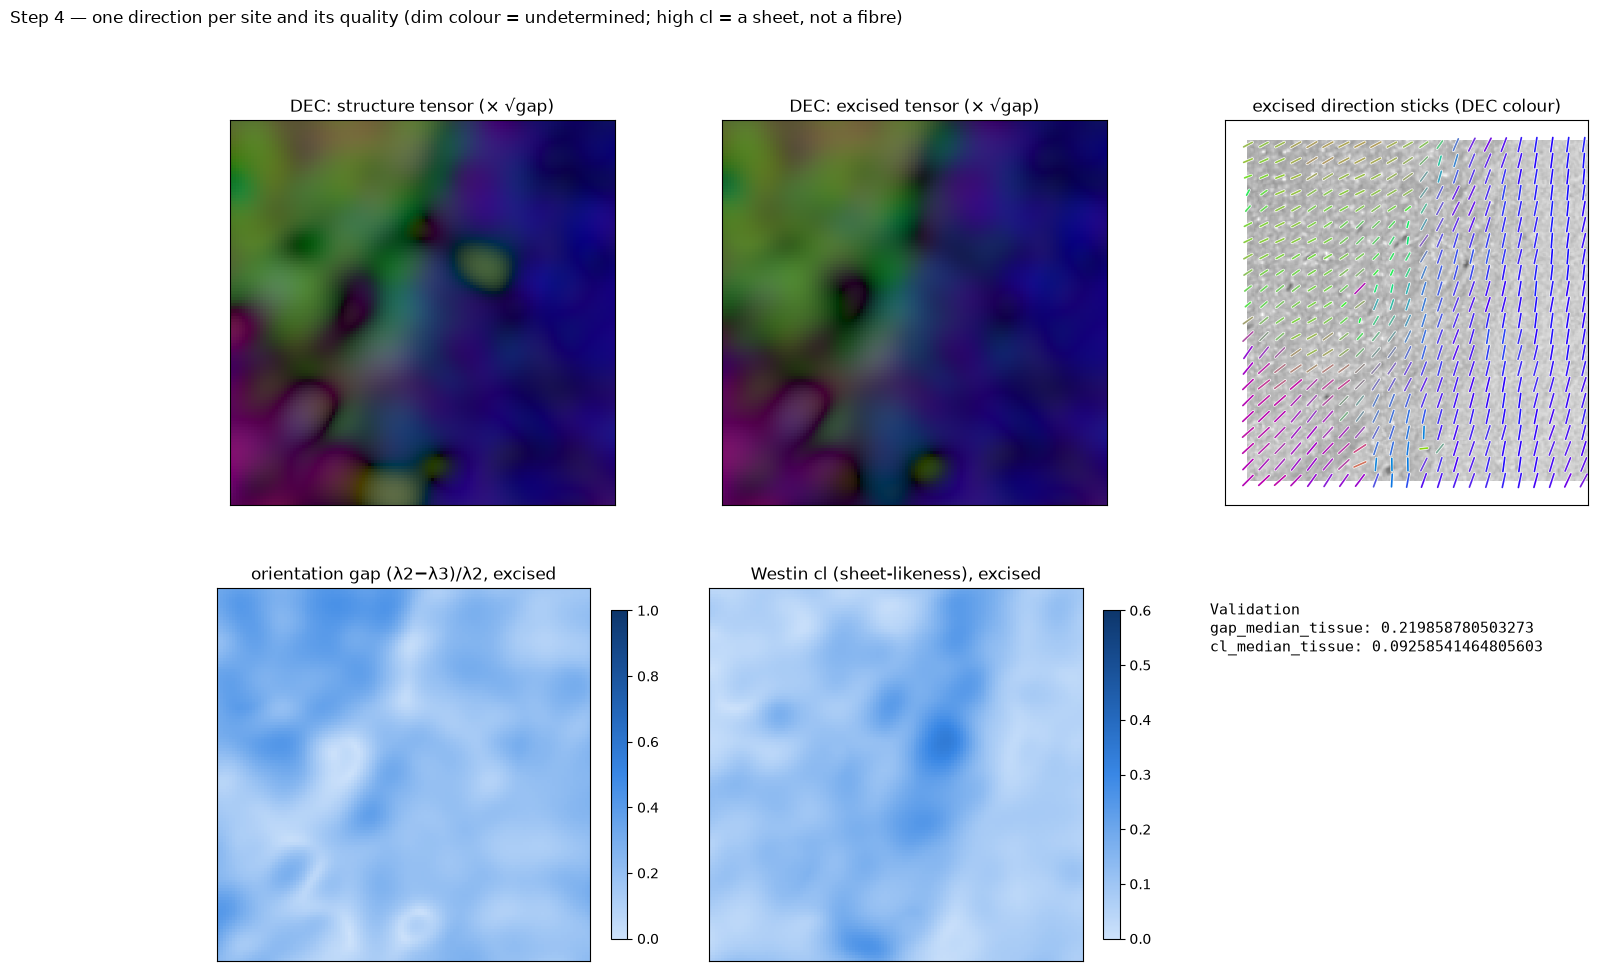
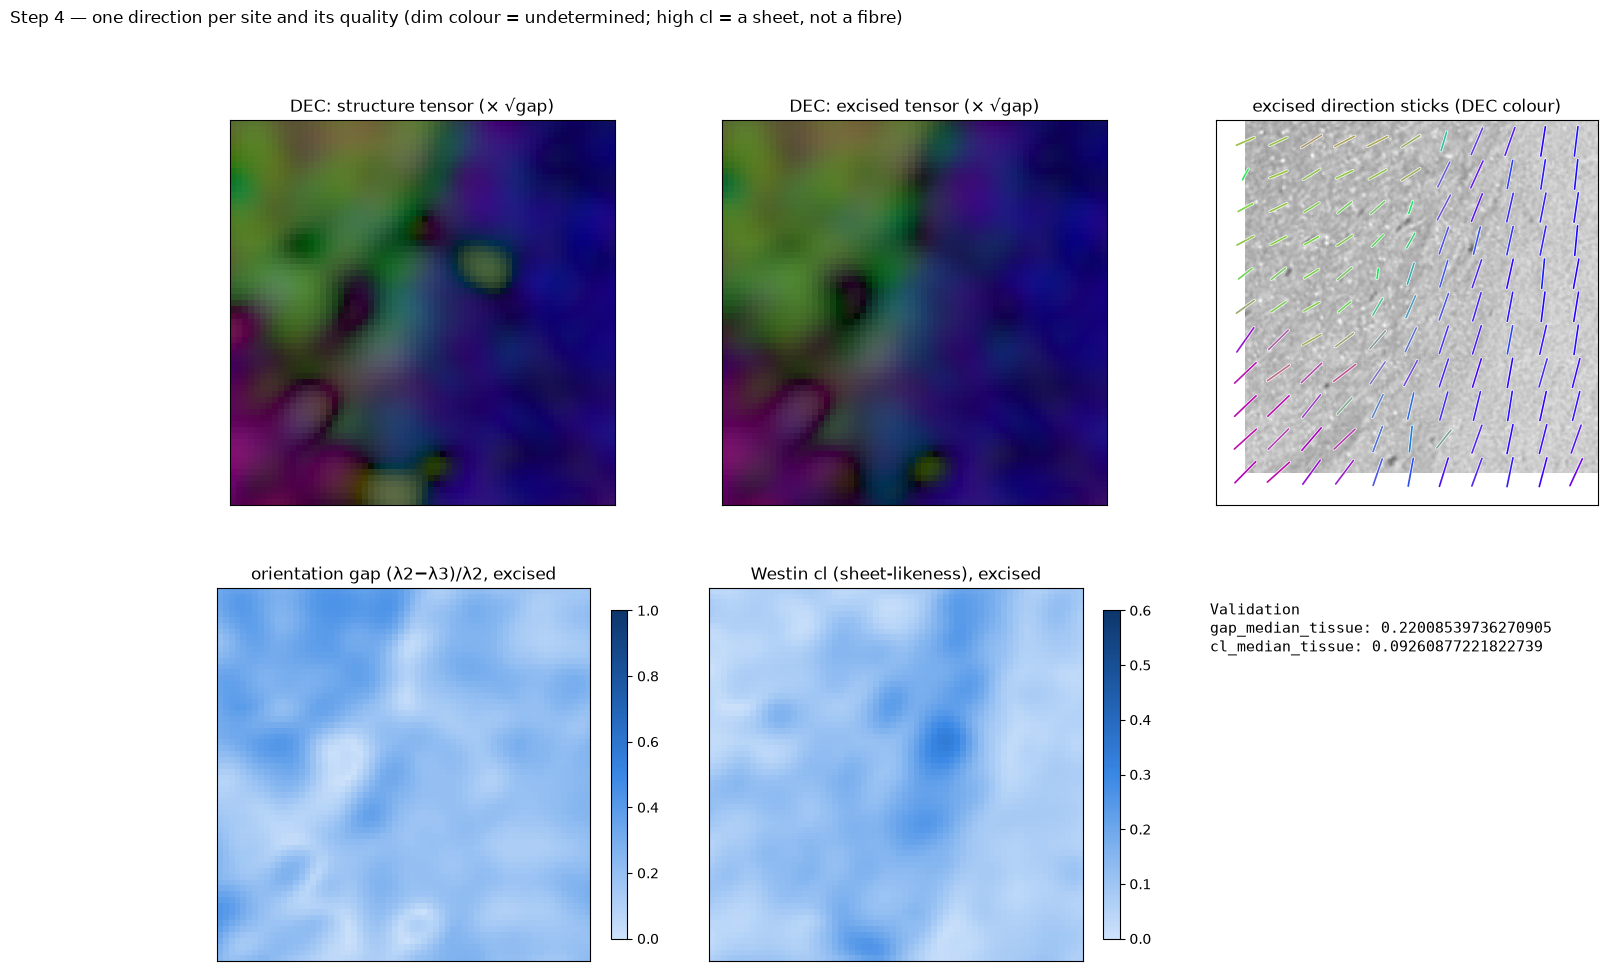
Orientation readout as a per-voxel distribution over directions (two populations in one voxel stay two bumps); field smoothing; walkthrough figures in the docs

Changed region(s): [[0.7398, 0.1228, 0.9864, 0.522], [0.8631, 0.6141, 0.9556, 0.6755]]

diff --git a/scripts/bench/orientation_readout.py b/scripts/bench/orientation_readout.py
@@ -21,7 +21,7 @@ from shapetensor.features import make_engine
 from shapetensor.features.cache import cached_features
 from shapetensor.phantoms import make
 from shapetensor.readout import common, orientation
-from shapetensor.readout.orientation import OrientationReadout, OrientationReadoutMLP, assign, window_modes
+from shapetensor.readout.orientation import OrientationReadout, OrientationReadoutDist, OrientationReadoutMLP, assign, modes_from_density, smooth_field, window_modes
 import argparse
 from shapetensor.tensor import gradients
 
@@ -67,8 +67,8 @@ def teacher(v):
 
 
 def main():
-    ap = argparse.ArgumentParser(); ap.add_argument("--model", default="mlp", choices=["ridge", "mlp"]); ap.add_argument("--kappa", type=float, default=25.0)
-    ap.add_argument("--mass-floor", type=float, default=0.15); args = ap.parse_args()
+    ap = argparse.ArgumentParser(); ap.add_argument("--model", default="mlp", choices=["ridge", "mlp", "dist"]); ap.add_argument("--kappa", type=float, default=25.0)
+    ap.add_argument("--mass-floor", type=float, default=0.15); ap.add_argument("--field-smooth", type=int, default=5); ap.add_argument("--conf-q", type=float, default=0.5); args = ap.parse_args()
     t0 = time.time()
     tex = json.load(open(f"{DATA_ROOT}/results/tex_calibrated.json"))["texture"]; tex["widths"] = [tuple(w) for w in tex["widths"]]
     tex = make.TextureParams(**{**tex, "dispersion_deg": 8.0, "pitch_deg": 4.0})
@@ -85,7 +85,7 @@ def main():
             F = cached_features(eng, v); d, gap = teacher(v)
             w = torch.zeros_like(gap); w[inner] = (gap[inner] > torch.quantile(gap[inner], 0.7)).float() * fib[inner].float()
             blocks.append((F, d, w))
-        ro = (OrientationReadoutMLP(smooth=3) if args.model == "mlp" else OrientationReadout(smooth=3, ridge=1.0)).fit(blocks, n_sample=240_000)
+        ro = ({"mlp": OrientationReadoutMLP(smooth=3), "dist": OrientationReadoutDist(smooth=3)}.get(args.model) or OrientationReadout(smooth=3, ridge=1.0)).fit(blocks, n_sample=240_000)
         del blocks; torch.cuda.empty_cache()
         r = {"fit_r2": round(ro.fit_r2, 3)}
         # --- test on seed B single fibres: per-voxel error on fibre voxels, teacher error for reference
@@ -106,12 +106,19 @@ def main():
         second = []
         for k, a in enumerate(ANG[::3]):
             v, fib, _ = build([(a, 1.0)], 200 + 3 * k, tex, g)
-            o, conf = ro.predict(cached_features(eng, v))
+            Fn_ = cached_features(eng, v); o, conf = ro.predict(Fn_)
+            os_, cs_ = smooth_field(o, conf, args.field_smooth) if args.field_smooth > 1 else (o, conf)
+            Pn = ro.predict_dist(Fn_) if args.model == "dist" else None
             for z in zs:
                 for x in xs:
                     sl = (slice(None), slice(z - half, z + half + 1), slice(y_mid - half // 2, y_mid + half // 2 + 1), slice(x - half, x + half + 1))
-                    oo = o[sl].reshape(3, -1).T; ww = (conf[sl[1:]] * fib[sl[1:]].float()).reshape(-1)
-                    _, h, n = window_modes(oo, ww, kappa_deg=args.kappa, rel=0.0)
+                    oo = os_[sl].reshape(3, -1).T; ww = (cs_[sl[1:]] * fib[sl[1:]].float()).reshape(-1)
+                    ww = ww * (ww >= torch.quantile(ww[ww > 0], args.conf_q)).float() if (ww > 0).sum() > 10 else ww
+                    if args.model == "dist":
+                        dens = (Pn[sl].reshape(Pn.shape[0], -1) * (fib[sl[1:]].float().reshape(-1))[None]).sum(1)
+                        _, h, n = modes_from_density(dens, ro.grid, rel=0.0)
+                    else:
+                        _, h, n = window_modes(oo, ww, kappa_deg=args.kappa, rel=0.0)
                     second.append(float(h[1]))
         thr = float(np.percentile(second, 99)); r["mode_rel_thr_99"] = round(thr, 3)
         print(f"[{time.time() - t0:4.0f}s] {sname}: null second-mode height 99th pct {thr:.3f}", flush=True)
@@ -119,17 +126,24 @@ def main():
         for cname, (a1, a2, f1) in CROSS.items():
             v, fib, masks = build([(a1, f1), (a2, 1 - f1)], 300, tex, g)
             F = cached_features(eng, v); o, conf = ro.predict(F); G = gradients(v[None], SIGMA, TR, out_dtype=torch.float32)
+            os_, cs_ = smooth_field(o, conf, args.field_smooth) if args.field_smooth > 1 else (o, conf)
+            Pd = ro.predict_dist(F) if args.model == "dist" else None
             t1, t2 = unit(a1), unit(a2)
             m1, m2 = masks[0] & ~masks[1], masks[1] & ~masks[0]
-            e1 = angle(o.permute(1, 2, 3, 0), t1); e2 = angle(o.permute(1, 2, 3, 0), t2)
+            e1 = angle(os_.permute(1, 2, 3, 0), t1); e2 = angle(os_.permute(1, 2, 3, 0), t2)
             vox = {"within_15_of_either": round(float(((e1 <= 15) | (e2 <= 15))[fib & (conf > 0)].float().mean()), 3),
                    "pop1_voxels_to_pop1": round(float((e1 <= 15)[m1].float().mean()), 3), "pop2_voxels_to_pop2": round(float((e2 <= 15)[m2].float().mean()), 3)}
             found, both, errs_pair, nfound = 0, 0, [], []
             for z in zs:
                 for x in xs:
                     sl = (slice(None), slice(z - half, z + half + 1), slice(y_mid - half // 2, y_mid + half // 2 + 1), slice(x - half, x + half + 1))
-                    oo = o[sl].reshape(3, -1).T; ww = (conf[sl[1:]] * fib[sl[1:]].float()).reshape(-1)
-                    modes, h, n = window_modes(oo, ww, kappa_deg=args.kappa, rel=max(thr, 0.2), mass_floor=args.mass_floor)
+                    oo = os_[sl].reshape(3, -1).T; cc = cs_[sl[1:]]; ww = (cc * fib[sl[1:]].float()).reshape(-1)
+                    ww = ww * (ww >= torch.quantile(ww[ww > 0], args.conf_q)).float() if (ww > 0).sum() > 10 else ww
+                    if args.model == "dist":
+                        dens = (Pd[sl].reshape(Pd.shape[0], -1) * (fib[sl[1:]].float().reshape(-1))[None]).sum(1)
+                        modes, h, n = modes_from_density(dens, ro.grid, rel=max(thr, 0.2), mass_floor=args.mass_floor)
+                    else:
+                        modes, h, n = window_modes(oo, ww, kappa_deg=args.kappa, rel=max(thr, 0.2), mass_floor=args.mass_floor)
                     nfound.append(n)
                     if n >= 2:
                         found += 1
@@ -161,7 +175,7 @@ def main():
                 ax.set_title(f"windows: N=2 at {r[cname]['found2_share']:.0%}, both within 15°: {r[cname]['both_within_15_share']:.0%}", fontsize=10); ax.set_xlabel("per-voxel orientation (deg)"); ax.set_yticks([])
             del F, G; torch.cuda.empty_cache()
         res[sname] = r
-        json.dump({"model": args.model, "kappa_deg": args.kappa, "mass_floor": args.mass_floor, **res}, open(f"{DATA_ROOT}/results/orientation_readout_{args.model}.json", "w"), indent=1)
+        json.dump({"model": args.model, "kappa_deg": args.kappa, "mass_floor": args.mass_floor, "field_smooth": args.field_smooth, "conf_q": args.conf_q, **res}, open(f"{DATA_ROOT}/results/orientation_readout_{args.model}.json", "w"), indent=1)
     fig.suptitle("Stage 2 by a self-calibrated orientation readout of the shape space (teacher: the excised tensor on confident single-fibre voxels; no labels)", x=0.01, ha="left", fontsize=11)
     fig.tight_layout(rect=[0, 0, 1, 0.95]); fig.savefig(FIGS / f"orientation_readout_crossing_{args.model}.png"); plt.close(fig)
     print("ORIENTATION READOUT DONE", flush=True)

diff --git a/src/shapetensor/readout/orientation.py b/src/shapetensor/readout/orientation.py
@@ -147,6 +147,76 @@ class OrientationReadoutMLP(OrientationReadout):
         return d_out, c_out
 
 
+class OrientationReadoutDist(OrientationReadoutMLP):
+    """Features -> a distribution over ``n_dirs`` hemisphere directions (softmax), trained with the same self-calibrated
+    teacher as a soft target (a kernel of ``target_deg`` around the teacher direction). Unlike the tensor regression,
+    a voxel that contains two populations keeps two bumps rather than their average, and the window's population
+    density is the sum of its voxels' distributions."""
+
+    def __init__(self, smooth: int = 3, hidden: int = 64, steps: int = 2000, lr: float = 2e-3, weight_decay: float = 1e-4, seed: int = 0,
+                 n_dirs: int = 160, target_deg: float = 12.0):
+        super().__init__(smooth=smooth, hidden=hidden, steps=steps, lr=lr, weight_decay=weight_decay, seed=seed)
+        self.n_dirs, self.target_deg = int(n_dirs), float(target_deg)
+        self.grid = None
+
+    def fit(self, blocks, n_sample: int = 200_000, seed: int = 0):
+        g = torch.Generator().manual_seed(seed)
+        Xs, Ds = [], []
+        per = max(1, n_sample // max(1, len(blocks)))
+        for F, d, w in blocks:
+            f = self._prep(F)
+            wv = w.reshape(-1).float().cpu()
+            idx = torch.multinomial(wv / wv.sum(), min(per, int((wv > 0).sum())), replacement=False, generator=g).to(F.device)
+            Xs.append(f.reshape(f.shape[0], -1)[:, idx].T); Ds.append(d.reshape(3, -1)[:, idx].T)
+        X = torch.cat(Xs); D = torch.cat(Ds)
+        self.grid = hemisphere(self.n_dirs, X.device)
+        k = 1.0 / (2 * math.sin(math.radians(self.target_deg)) ** 2)
+        Y = torch.exp(k * ((D @ self.grid.T) ** 2 - 1)); Y = Y / Y.sum(1, keepdim=True)         # soft targets (N, n_dirs)
+        self.mean, self.std = X.mean(0), X.std(0).clamp_min(1e-6)
+        Xn = (X - self.mean) / self.std
+        torch.manual_seed(self.seed)
+        self.net = torch.nn.Sequential(torch.nn.Linear(X.shape[1], self.hidden), torch.nn.GELU(), torch.nn.Linear(self.hidden, self.hidden),
+                                       torch.nn.GELU(), torch.nn.Linear(self.hidden, self.n_dirs)).to(X.device)
+        opt = torch.optim.Adam(self.net.parameters(), lr=self.lr, weight_decay=self.wd)
+        n = len(Xn); bs = min(8192, n)
+        for step in range(self.steps):
+            i = torch.randint(0, n, (bs,), device=X.device)
+            logp = torch.log_softmax(self.net(Xn[i]), 1)
+            loss = -(Y[i] * logp).sum(1).mean()
+            opt.zero_grad(); loss.backward(); opt.step()
+        with torch.no_grad():
+            P = torch.cat([torch.softmax(self.net(Xn[a:a + 65536]), 1) for a in range(0, n, 65536)])
+            self.fit_r2 = float((P * Y).sum(1).mean() / (Y * Y).sum(1).mean())              # overlap with the target, 1 = perfect
+        return self
+
+    def predict_dist(self, F: torch.Tensor, z_chunk: int = 16):
+        """Per-voxel distributions ``(n_dirs, Z, Y, X)``."""
+        f = self._prep(F); C, Z, Y, X = f.shape
+        out = torch.empty((self.n_dirs, Z, Y, X), device=F.device)
+        with torch.no_grad():
+            for z in range(0, Z, z_chunk):
+                fz = f[:, z:z + z_chunk]
+                P = torch.softmax(self.net((fz.reshape(C, -1).T - self.mean) / self.std), 1)
+                out[:, z:z + z_chunk] = P.T.reshape(self.n_dirs, *fz.shape[1:])
+        return out
+
+    def predict(self, F: torch.Tensor, z_chunk: int = 16):
+        """The distribution's peak direction per voxel and its confidence (the peak's share of the mass)."""
+        P = self.predict_dist(F, z_chunk)
+        j = P.argmax(0); conf = P.max(0).values.clamp(0, 1)
+        return self.grid[j].permute(3, 0, 1, 2).contiguous(), conf
+
+
+def smooth_field(o: torch.Tensor, conf: torch.Tensor, k: int = 5):
+    """Average the per-voxel orientation tensors ``conf * d dᵀ`` over a ``k``³ neighbourhood (a fascicle is several
+    voxels wide; a voxel's readout is noisy) and re-read the direction and confidence from the averaged tensor."""
+    T6 = outer6(o.permute(1, 2, 3, 0)) * conf[..., None]                              # (Z, Y, X, 6)
+    T6 = Fn.avg_pool3d(T6.permute(3, 0, 1, 2)[None], k, stride=1, padding=k // 2)[0].permute(1, 2, 3, 0)
+    lam, V = eigh(tensor_from6(T6.reshape(-1, 6)))
+    d = V[..., :, 2]; c = ((lam[:, 2] - lam[:, 1]) / lam[:, 2].abs().clamp_min(1e-9)).clamp(0, 1)
+    return d.T.reshape(3, *o.shape[1:]), c.reshape(o.shape[1:])
+
+
 def hemisphere(n: int = 1500, device="cpu") -> torch.Tensor:
     """Roughly uniform unit vectors on a hemisphere (z >= 0), a Fibonacci set, (n, 3) in (z, y, x)."""
     i = torch.arange(n, dtype=torch.float64) + 0.5
@@ -165,19 +235,26 @@ def window_modes(o: torch.Tensor, w: torch.Tensor, kappa_deg: float = 15.0, rel:
     k = 1.0 / (2 * math.sin(math.radians(kappa_deg)) ** 2)
     c2 = (o @ u.T) ** 2                                                                   # (n, m)
     dens = (w[:, None] * torch.exp(k * (c2 - 1))).sum(0)                                 # (m,)
-    modes = torch.zeros(nmax, 3, device=o.device); heights = torch.zeros(nmax, device=o.device)
-    top = float(dens.max()); taken = torch.zeros(len(u), dtype=torch.bool, device=o.device)
+    return modes_from_density(dens, u, rel=rel, min_sep_deg=min_sep_deg, nmax=nmax, mass_floor=mass_floor)
+
+
+def modes_from_density(dens: torch.Tensor, u: torch.Tensor, rel: float = 0.5, min_sep_deg: float = 25.0, nmax: int = 3,
+                       mass_floor: float = 0.0):
+    """Peaks of a density ``dens (m,)`` over grid directions ``u (m, 3)``: greedy, above ``rel`` x the top, at least
+    ``min_sep_deg`` apart; with ``mass_floor`` a candidate must own that share of the density (the grid points nearer
+    to it than to any kept mode)."""
+    modes = torch.zeros(nmax, 3, device=dens.device); heights = torch.zeros(nmax, device=dens.device)
+    top = float(dens.max()); taken = torch.zeros(len(u), dtype=torch.bool, device=dens.device)
     cos_sep = math.cos(math.radians(min_sep_deg)); n = 0
-    wsum = float(w.sum())
+    total = float(dens.clamp_min(0).sum())
     for r in range(nmax):
         d = dens.masked_fill(taken, -1.0)
         j = int(d.argmax())
         if d[j] < rel * top or d[j] <= 0:
             break
         if mass_floor > 0 and r > 0:
-            # the mass of the voxels nearer this candidate than any kept mode, as a share of the window
-            near = ((o @ u[j]) ** 2 >= (o @ modes[:r].T).pow(2).max(1).values)
-            if float(w[near].sum()) / max(wsum, 1e-12) < mass_floor:
+            near = ((u @ u[j]) ** 2 >= (u @ modes[:r].T).pow(2).max(1).values)
+            if float(dens.clamp_min(0)[near].sum()) / max(total, 1e-12) < mass_floor:
                 taken[j] = True; continue
         modes[r] = u[j]; heights[r] = d[j] / top; n += 1
         taken |= (u @ u[j]).abs() >= cos_sep
